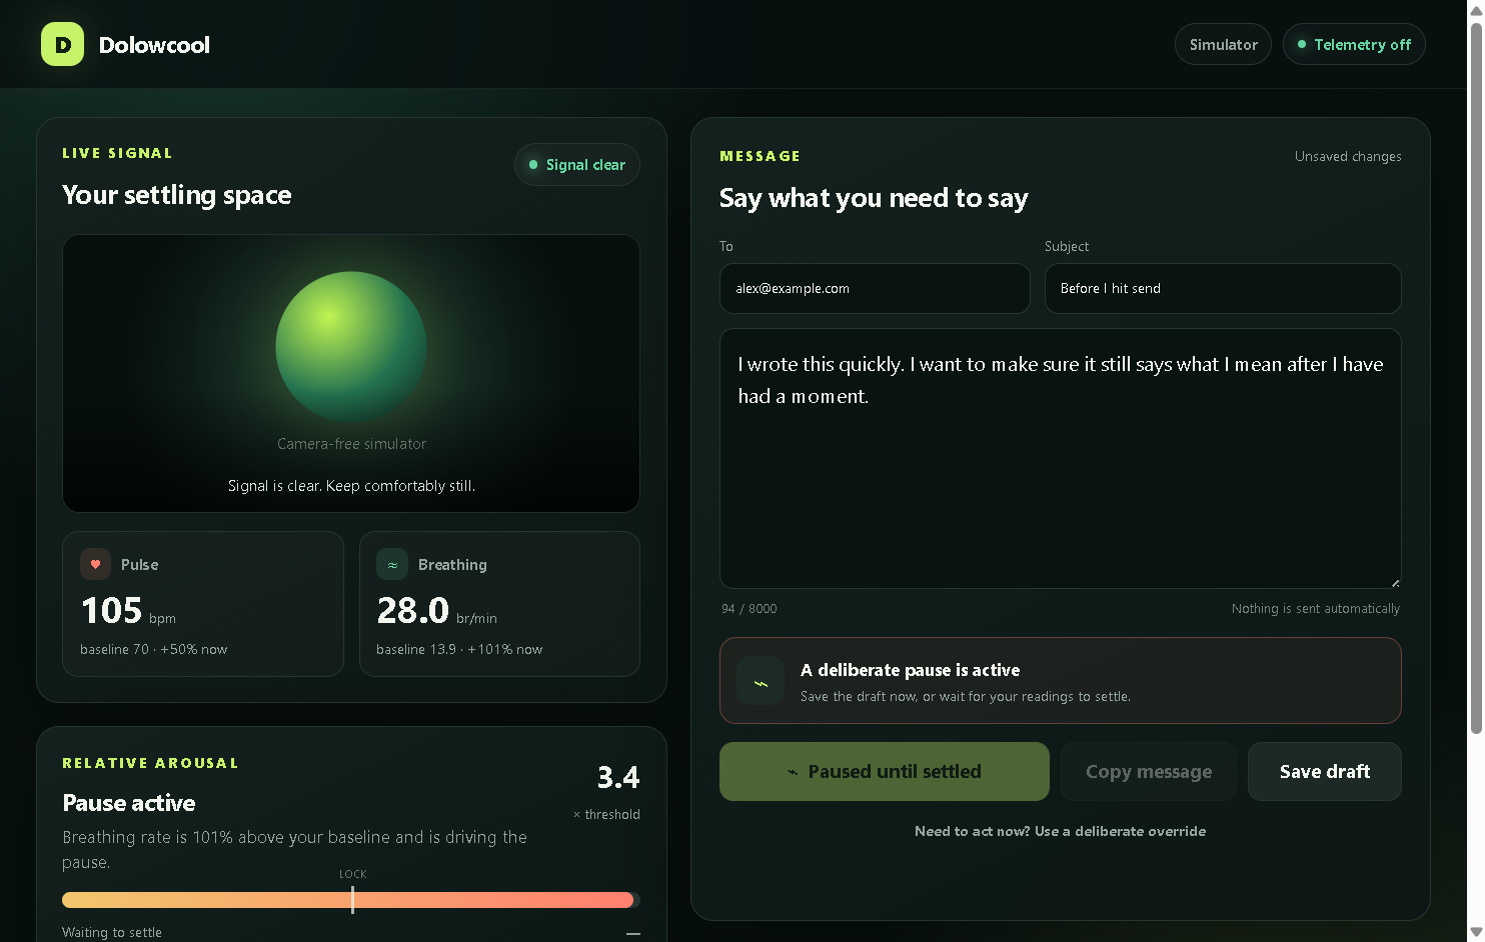
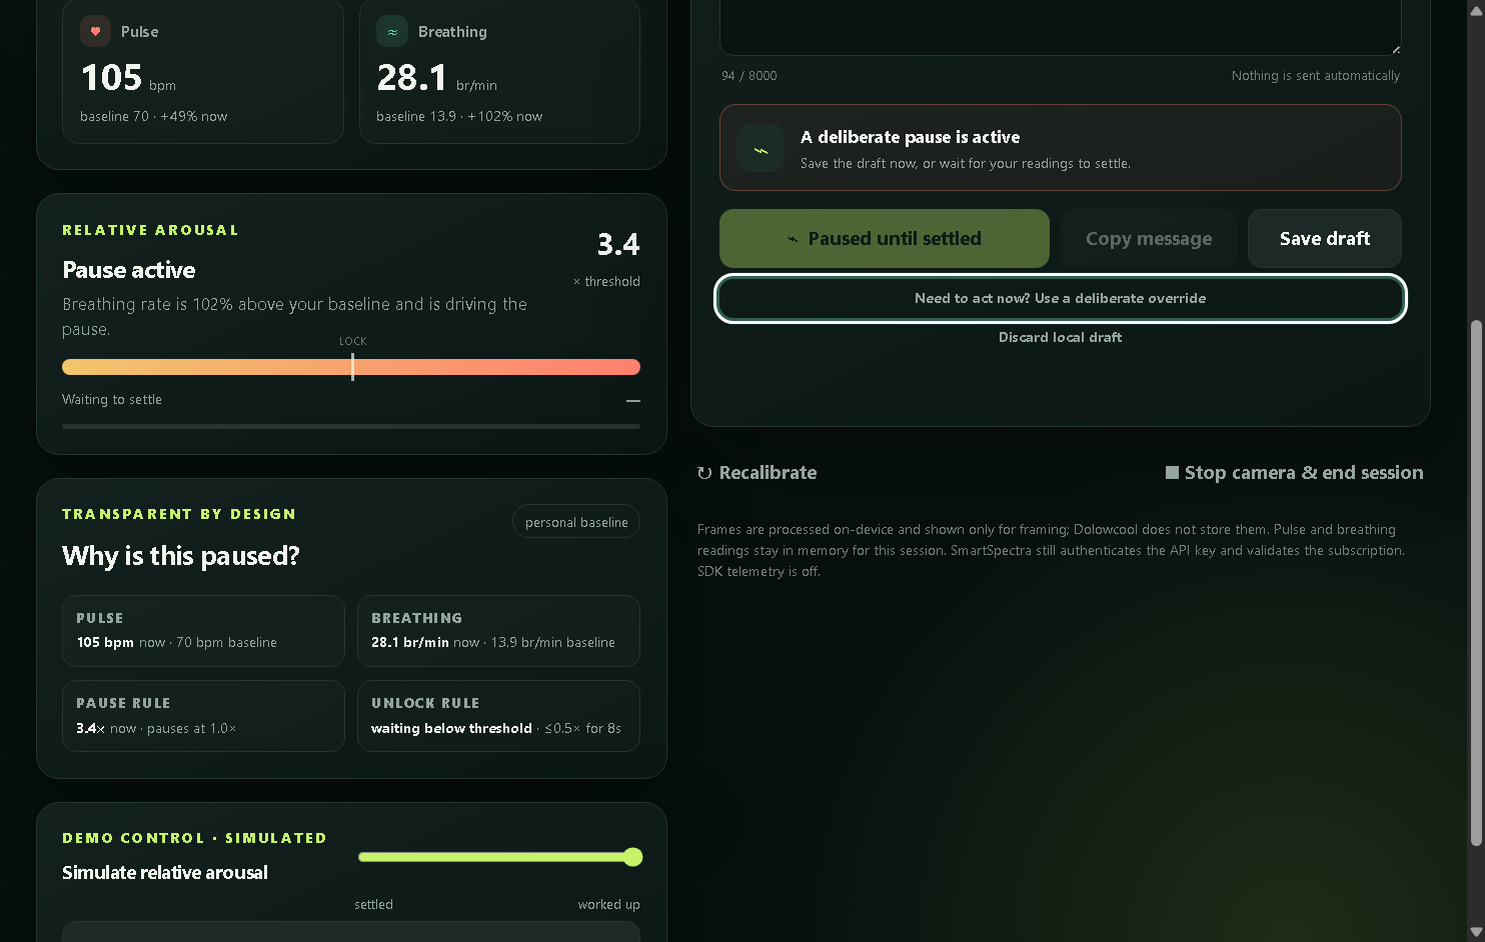
docs: add simulator hero visual proof

diff --git a/scripts/electron-smoke.js b/scripts/electron-smoke.js
@@ -2,6 +2,7 @@ const assert = require('node:assert/strict');
 const fs = require('node:fs');
 const path = require('node:path');
 const { app } = require('electron');
+app.disableHardwareAcceleration();
 const main = require('../main');
 
 const wait = (ms) => new Promise((resolve) => setTimeout(resolve, ms));
@@ -115,7 +116,25 @@ app.whenReady().then(async () => {
       assert.equal(overrideState.visible, true);
       assert.match(overrideState.label, /Press and hold 3 seconds/);
       await win.webContents.executeJavaScript(`document.getElementById('overrideNo').click()`);
+      const pauseAnnouncement = await win.webContents.executeJavaScript(
+        `document.getElementById('announcer').textContent`,
+      );
+      assert.match(pauseAnnouncement, /Message actions paused/);
       await capture(win, 'locked');
+
+      await win.webContents.executeJavaScript(`(() => {
+        const settledSlider = document.getElementById('sim');
+        settledSlider.value = '0';
+        settledSlider.dispatchEvent(new Event('input', { bubbles: true }));
+      })()`);
+      await waitFor(async () => win.webContents.executeJavaScript(
+        `document.getElementById('lockBanner').classList.contains('unlocked')`
+      ), 'Simulator did not complete the continuous calm hold.', 22000);
+      const unlockAnnouncement = await win.webContents.executeJavaScript(
+        `document.getElementById('announcer').textContent`,
+      );
+      assert.match(unlockAnnouncement, /Message actions unlocked/);
+      await capture(win, 'settled');
     }
 
     const draftResult = await win.webContents.executeJavaScript(`

diff --git a/README.md b/README.md
@@ -1,12 +1,18 @@
 # Dolowcool
 
-**Write now. Send when settled.**
+**Write now. Send when settled.** Dolowcool turns live pulse and breathing rate into a transparent, reversible pause before a message leaves the desktop composer.
 
-Dolowcool is a desktop message composer whose email action pauses when camera-estimated pulse or breathing rate rises well above the user's own calm baseline. It unlocks only after a continuous settled hold—or the user can make an explicit, deliberate override.
+![Simulated Dolowcool flow: calibrating, paused, then settled](docs/dolowcool-demo.gif)
+
+```bash
+npm install
+npm test
+npm run start:sim
+```
 
 Built for the [Presage SmartSpectra SDK Challenge](https://dev.to/challenges/presage-2026-11-04).
 
-![Dolowcool showing a breathing-driven pause](docs/locked.png)
+The GIF is captured from the real Electron UI in simulator mode. It contains no face, camera frames, API key, or readings from a person. The competition demo must use the live SmartSpectra source.
 
 ## Why it is different
 
